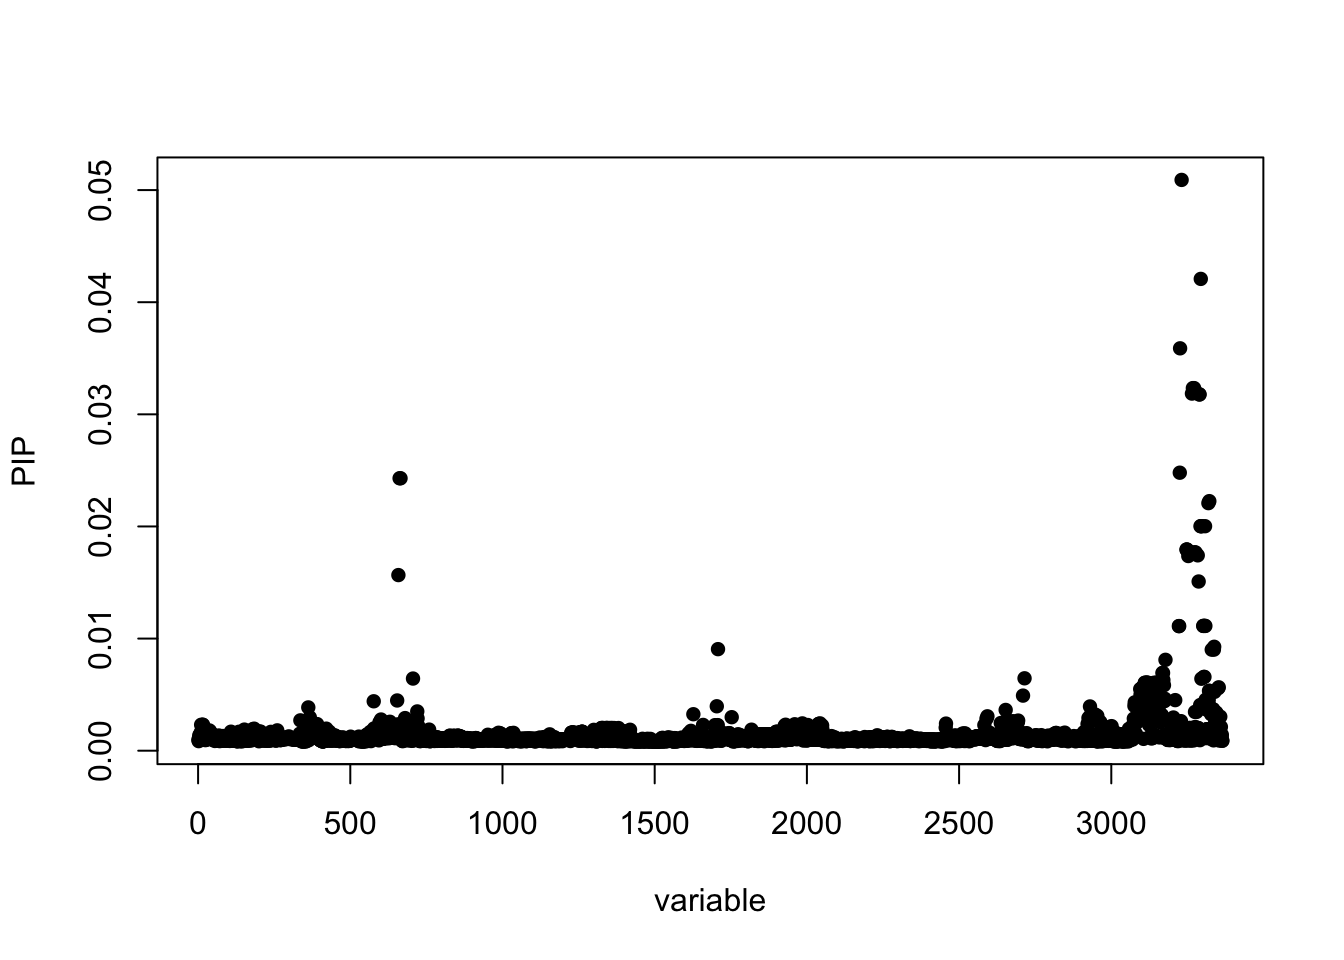
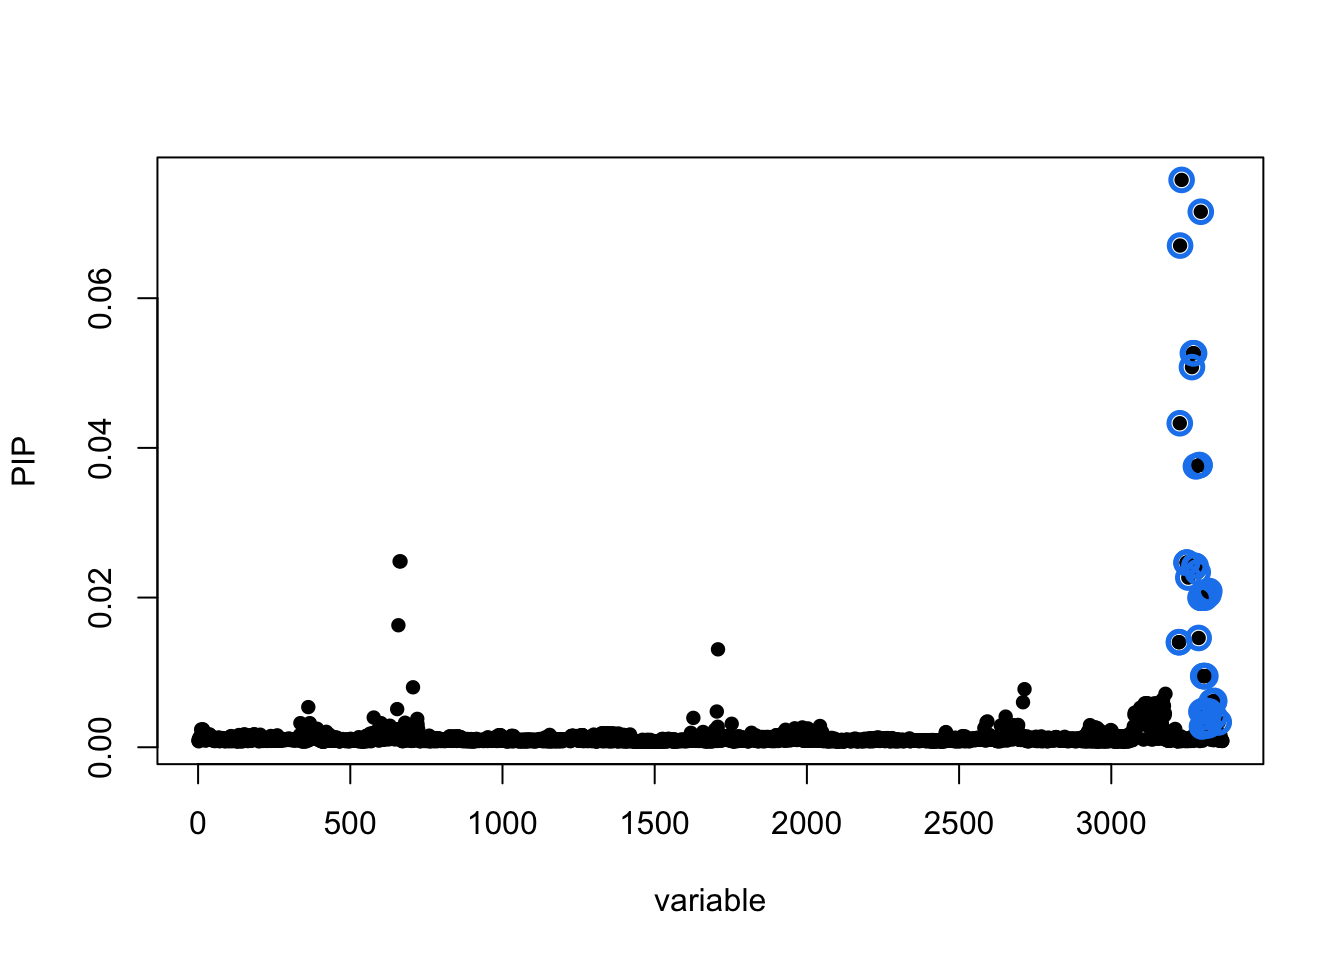
Build site.

diff --git a/docs/informative_prior.html b/docs/informative_prior.html
@@ -381,7 +381,7 @@ class="glyphicon glyphicon-ok text-success" aria-hidden="true"></span>
 <div class="tab-content">
 <div id="summary" class="tab-pane fade in active">
 <p>
-<strong>Last updated:</strong> 2025-02-26
+<strong>Last updated:</strong> 2025-02-27
 </p>
 <p>
 <strong>Checks:</strong> <span
@@ -512,15 +512,15 @@ project makes it easier to run your code on other machines.</p>
 <div class="panel panel-default">
 <div class="panel-heading">
 <p class="panel-title">
-<a data-toggle="collapse" data-parent="#workflowr-checks" href="#strongRepositoryversionstrongahrefhttpsgithubcomLifanLiangeQTLmethodstree5c8b81ee8bb822d60785a5ed647b1b62da632e02targetblank5c8b81ea">
+<a data-toggle="collapse" data-parent="#workflowr-checks" href="#strongRepositoryversionstrongahrefhttpsgithubcomLifanLiangeQTLmethodstree5befbac7dd4990009282242b1ff0817ab33516d0targetblank5befbaca">
 <span class="glyphicon glyphicon-ok text-success"
 aria-hidden="true"></span> <strong>Repository version:</strong>
-<a href="https://github.com/LifanLiang/eQTL_methods/tree/5c8b81ee8bb822d60785a5ed647b1b62da632e02" target="_blank">5c8b81e</a>
+<a href="https://github.com/LifanLiang/eQTL_methods/tree/5befbac7dd4990009282242b1ff0817ab33516d0" target="_blank">5befbac</a>
 </a>
 </p>
 </div>
 <div
[2 lines of base64/hex data omitted]
 class="panel-collapse collapse">
 <div class="panel-body">
 <p>
@@ -530,7 +530,7 @@ reproducibility.
 </p>
 <p>
 The results in this page were generated with repository version
-<a href="https://github.com/LifanLiang/eQTL_methods/tree/5c8b81ee8bb822d60785a5ed647b1b62da632e02" target="_blank">5c8b81e</a>.
+<a href="https://github.com/LifanLiang/eQTL_methods/tree/5befbac7dd4990009282242b1ff0817ab33516d0" target="_blank">5befbac</a>.
 See the <em>Past versions</em> tab to see a history of the changes made
 to the R Markdown and HTML files.
 </p>
@@ -606,6 +606,40 @@ Message
 </tr>
 </thead>
 <tbody>
+<tr>
+<td>
+Rmd
+</td>
+<td>
+<a href="https://github.com/LifanLiang/eQTL_methods/blob/5befbac7dd4990009282242b1ff0817ab33516d0/analysis/informative_prior.Rmd" target="_blank">5befbac</a>
+</td>
+<td>
+Lifan Liang
+</td>
+<td>
+2025-02-27
+</td>
+<td>
+wflow_publish("analysis")
+</td>
+</tr>
+<tr>
+<td>
+html
+</td>
+<td>
+<a href="https://rawcdn.githack.com/LifanLiang/eQTL_methods/fcd0e96ca578cac430328b890f3edc9afece3ee4/docs/informative_prior.html" target="_blank">fcd0e96</a>
+</td>
+<td>
+Lifan Liang
+</td>
+<td>
+2025-02-26
+</td>
+<td>
+Build site.
+</td>
+</tr>
 <tr>
 <td>
 Rmd
@@ -795,13 +829,13 @@ expression Y as:</p>
 \\
 Y_i = \sum_j X_{ij}\beta_j + \epsilon
 \]</span></p>
-<pre class="r"><code>sigma = 0.5
-sigma.e = 0.5
+<pre class="r"><code>sigma = 0.3
+sigma.e = 1.0
 
 #pi &lt;- rep(c(2,4,8,16,32) * 1e-4, each=ncol(X)/5)
 pi &lt;- rep(c(2,4,8,16,32) * 1e-4, 673)
 
-sim_group_pi &lt;- function(X, pi, sigma=0.25, sigma.e=1.0) {
+sim_group_pi &lt;- function(X, pi=pi, sigma=0.3, sigma.e=1.0) {
   ### Impose the constraint that there is at least one causal SNP
   N &lt;- 0
   while(N==0) {
@@ -816,7 +850,7 @@ sim_group_pi &lt;- function(X, pi, sigma=0.25, sigma.e=1.0) {
 <p>PVE varies because the genetic component of <span
 class="math inline">\(var(Y)\)</span> depends on the effect size and the
 allele frequency of causal SNPs. Mostly, the total PVE was less than
-10%.</p>
+20%.</p>
 <pre class="r"><code>set.seed(1234)
 pve &lt;- numeric(100L)
 #rand.cor &lt;- numeric(100L)
@@ -1008,8 +1042,8 @@ Lifan Liang
 </table>
 </div>
 </div>
-<p>When SuSIE was run without the grouped prior, results change a bit
-for SNPs in LD of the causal one.</p>
+<p>When SuSIE was run without the grouped prior, more SNPs have similar
+PIP in the same credible set.</p>
 <pre class="r"><code>susie.fit &lt;- susie(X1, sim.res$y, coverage = 0.95,
                    L=sum(sim.res$gamma),standardize = F)
 susie_plot(susie.fit, y=&#39;PIP&#39;)</code></pre>
@@ -1055,15 +1089,15 @@ Lifan Liang
 </div>
 <div id="cross-validation" class="section level3">
 <h3>Cross validation</h3>
-<p>We used 5-fold cross validation over the 100 individuals. Use mean
-square error in the test set as the evaluation metric. The two SuSIE
-models is one with priors and one without.</p>
-<pre class="r"><code>inds &lt;- sample(rep(1:5,times=20))
+<p>We used 10-fold cross validation over the 100 individuals. Evaluation
+metric in the test set is <span class="math inline">\(R^2\)</span>. The
+two SuSIE models is one with priors and one without.</p>
+<pre class="r"><code>inds &lt;- sample(rep(1:10,times=10))
 sim.res$X &lt;- apply(sim.res$X,2,as.numeric)
-dat.mse &lt;- matrix(nrow=5,ncol=3)
-colnames(dat.mse) &lt;- c(&quot;lasso&quot;,&quot;susie&quot;,&quot;susie.prior&quot;)
+dat.r2 &lt;- matrix(nrow=10,ncol=3)
+colnames(dat.r2) &lt;- c(&quot;lasso&quot;,&quot;susie&quot;,&quot;susie.prior&quot;)
 
-for(i in 1:5) {
+for(i in 1:10) {
   X.train &lt;- sim.res$X[inds!=i,]
   y.train &lt;- sim.res$y[inds!=i]
   X.test &lt;- sim.res$X[inds==i,]
@@ -1071,19 +1105,56 @@ for(i in 1:5) {
   
   lasso.fit &lt;- glmnet(X.train, y.train,lambda = 0.3)
   lasso.y &lt;- predict(lasso.fit, X.test)
-  dat.mse[i,&quot;lasso&quot;] &lt;- mean((y.test - lasso.y)**2)
+  dat.r2[i,&quot;lasso&quot;] &lt;- cor(y.test,lasso.y)**2
   
   susie.fit &lt;- susie(X.train, y.train, L=5, standardize = F)
   susie.y &lt;- predict(susie.fit, X.test)
-  dat.mse[i,&quot;susie&quot;] &lt;- mean((y.test - susie.y)**2)
+  dat.r2[i,&quot;susie&quot;] &lt;- cor(y.test,susie.y)**2
   
   susie.fit &lt;- susie(X.train, y.train, prior_weights = sim.res$pi, L=5, standardize = F)
   susie.y &lt;- predict(susie.fit, X.test)
-  dat.mse[i,&quot;susie.prior&quot;] &lt;- mean((y.test - susie.y)**2)
+  dat.r2[i,&quot;susie.prior&quot;] &lt;- cor(y.test,susie.y)**2
 }
 
-boxplot(dat.mse, ylab=&quot;MSE&quot;)</code></pre>
+boxplot(dat.r2, ylab=&quot;R2&quot;, col=2:4)</code></pre>
 <p><img src="figure/informative_prior.Rmd/unnamed-chunk-9-1.png" width="672" style="display: block; margin: auto;" /></p>
+<p>
+<button type="button" class="btn btn-default btn-xs btn-workflowr btn-workflowr-fig" data-toggle="collapse" data-target="#fig-unnamed-chunk-9-1">
+Past versions of unnamed-chunk-9-1.png
+</button>
+</p>
+<div id="fig-unnamed-chunk-9-1" class="collapse">
+<div class="table-responsive">
+<table class="table table-condensed table-hover">
+<thead>
+<tr>
+<th>
+Version
+</th>
+<th>
+Author
+</th>
+<th>
+Date
+</th>
+</tr>
+</thead>
+<tbody>
+<tr>
+<td>
+<a href="https://github.com/LifanLiang/eQTL_methods/blob/fcd0e96ca578cac430328b890f3edc9afece3ee4/docs/figure/informative_prior.Rmd/unnamed-chunk-9-1.png" target="_blank">fcd0e96</a>
+</td>
+<td>
+Lifan Liang
+</td>
+<td>
+2025-02-26
+</td>
+</tr>
+</tbody>
+</table>
+</div>
+</div>
 <br>
 <p>
 <button type="button" class="btn btn-default btn-workflowr btn-workflowr-sessioninfo" data-toggle="collapse" data-target="#workflowr-sessioninfo" style="display: block;">
